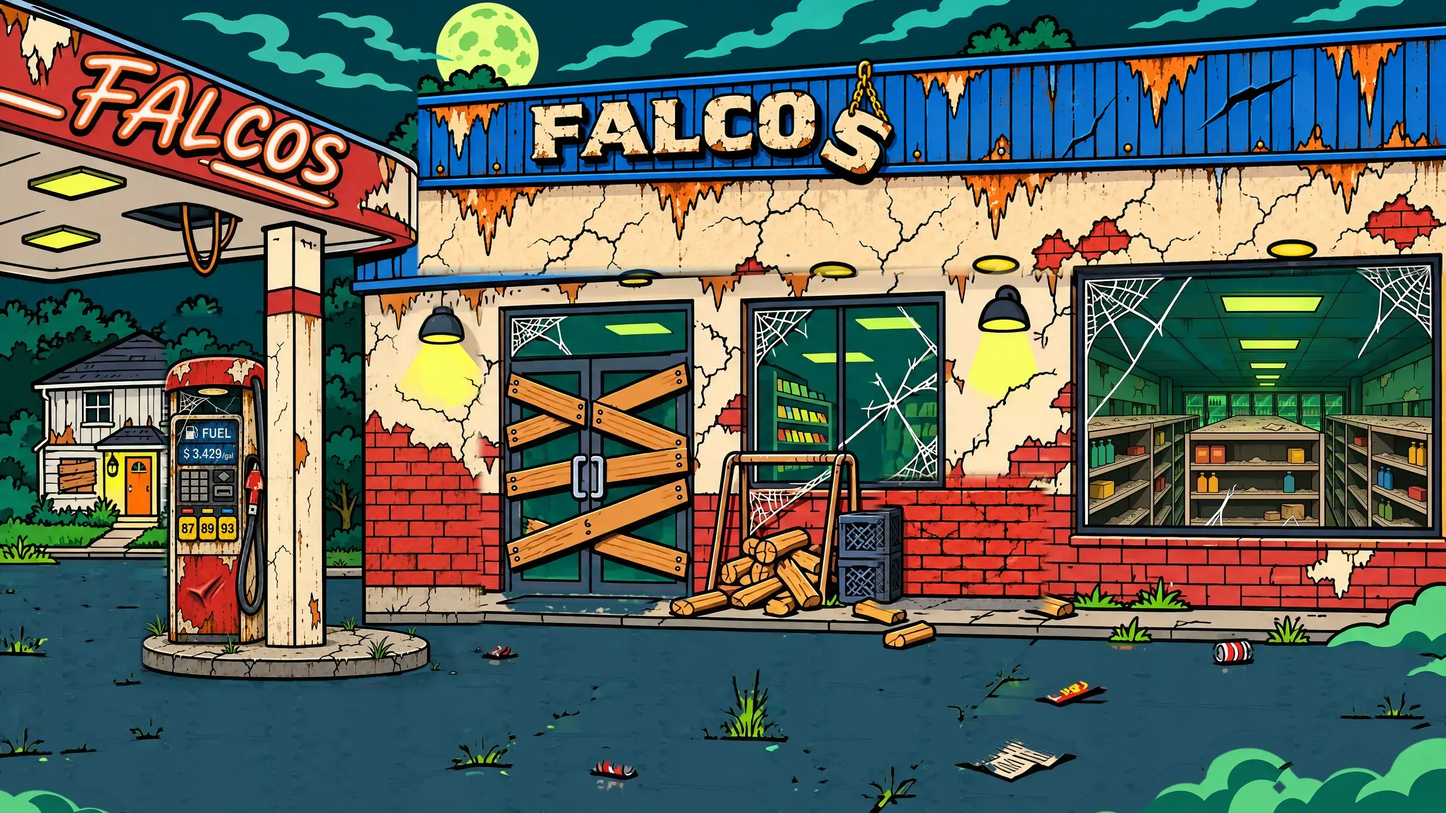
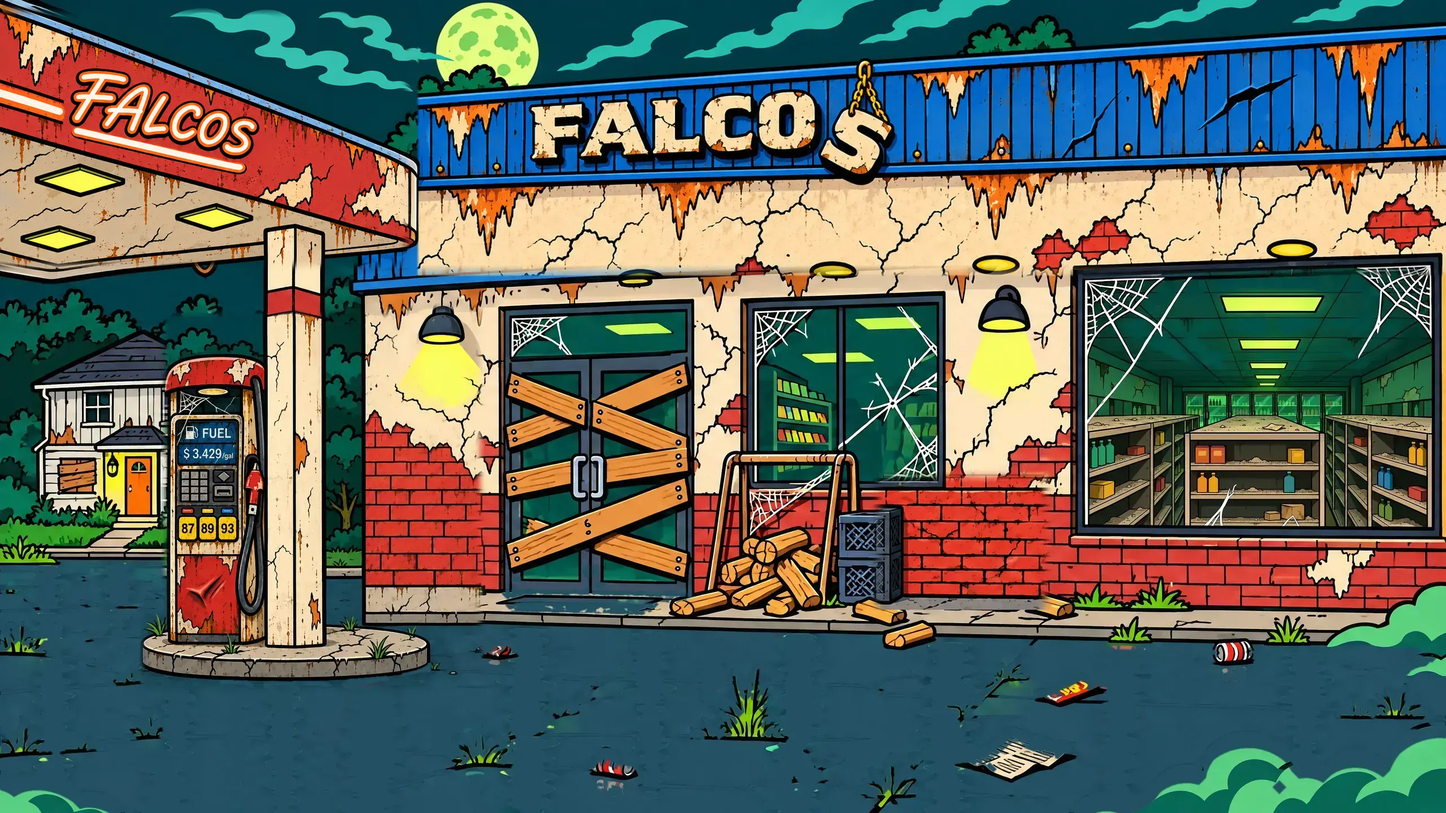
Falcos: a smaller canopy neon that fits left of the board; the building's lettering hidden while playing
- tools/falcos/neon_small.py: the canopy's FALCOS neon at ~70%, ending left of the pillar, on all four plates (each
  scene's own colours; PREMIUM keeps the base game's tubes), and the flicker rebuilt for the new letters: sign_off,
  sign_off_l / sign_off_s and PREMIUM's zsign_off_l / zsign_off_s, rects in scene.json.
- tools/falcos/sign_patch.py: a letter-free fascia patch per scene, laid over the plate as a second background
  layer only while playing (not on the loading screen or the bonus intros), so no sliver of the lettering peeks
  above the board.

Changed region(s): [[0.0, 0.0, 0.2812, 0.3438], [0.25, 0.0312, 0.2812, 0.0625]]

diff --git a/frontend/index.html b/frontend/index.html
@@ -74,6 +74,7 @@
        only the pair that applies is preloaded (assetUrls skips media rules that do not match) */
     --wall-img: url("assets/bonus_wall.webp");
     --zombie-img: url("assets/scene/plate_zombie.webp");
+    --wall-patch: url("assets/scene/signpatch_lit.webp");   /* the building's lettering hidden during play (sign_patch.py) */
     --sym-fit: .92;    /* a symbol fills this share of its tile (SYM_FIT in the script, boardgl.js) */
     /* frame_sq.webp's glass opening, as fractions of the picture (frame_sq.json, measured by
        compress_assets.py - keep these in step with it): left, top, width, height */
@@ -89,7 +90,8 @@
     :root { --cell-w: 150px; --fo-l: .03096; --fo-t: .15494; --fo-w: .93808; --fo-h: .80189; }
   }
   @media (max-width: 900px) and (max-height: 1000px), (max-height: 500px) {
-    :root { --wall-img: url("assets/bonus_wall_m.webp"); --zombie-img: url("assets/scene/plate_zombie_m.webp"); }
+    :root { --wall-img: url("assets/bonus_wall_m.webp"); --zombie-img: url("assets/scene/plate_zombie_m.webp");
+            --wall-patch: url("assets/scene/signpatch_lit_m.webp"); }
   }
 
   /* The faces ship as subset WOFF2 (tools/make_webfonts.py, from the masters in art/fonts): every
@@ -165,6 +167,18 @@
     background: #070B18 var(--wall-img) var(--wall-x, 50%) var(--wall-y, 50%) / var(--wall-scale) no-repeat;
     /* the scene's lean (--scene-yaw); the hop (bgbounce) is on translate/scale and rides on top */
     transform: perspective(2600px) rotateY(var(--scene-yaw));
+  }
+  /* While playing, the building's FALCOS lettering is hidden - the board covers most of it and only a sliver showed
+     (owner, 2026-11-17: "remove the background of the sign covered by the board but only on the playing screen"): a
+     letter-free fascia patch rides over the plate as a second layer, same size and place. The loading screen and the
+     bonus intros keep the full sign. */
+  body:not(.features-up) #bgwall {
+    background: var(--wall-patch) var(--wall-x, 50%) var(--wall-y, 50%) / var(--wall-scale) no-repeat,
+                #070B18 var(--wall-img) var(--wall-x, 50%) var(--wall-y, 50%) / var(--wall-scale) no-repeat;
+  }
+  body:not(.features-up) #bgalt {
+    background: var(--altpatch, none) var(--wall-x, 50%) var(--wall-y, 50%) / var(--wall-scale) no-repeat,
+                #070B18 var(--alt, none) var(--wall-x, 50%) var(--wall-y, 50%) / var(--wall-scale) no-repeat;
   }
   #bgwall::after {
     content: ""; position: absolute; inset: 0; z-index: 1; pointer-events: none;
@@ -6251,9 +6265,9 @@ const plateUrl = u => SMALL_PLATES ? u.replace(/\.webp$/, "_m.webp") : u;
 // like the normal one"): its L and S fail on their own clocks through SceneFX's fault episodes, their off states
 // cut by tools/falcos/zombie_sign.py (assets/scene/zsign_off_<l>.webp, rects in scene.json's zombie_layers).
 const Scene = (() => {
-  const PLATES = { zombie: { url: plateUrl("assets/scene/plate_zombie.webp"), wash: "rgba(90, 255, 70, .55)" },
-                   midnight: { url: plateUrl("assets/scene/plate_midnight.webp"), wash: "rgba(140, 110, 255, .6)" },
-                   nitro: { url: plateUrl("assets/scene/plate_nitro.webp"), wash: "rgba(70, 120, 255, .6)" } };
+  const PLATES = { zombie: { url: plateUrl("assets/scene/plate_zombie.webp"), patch: plateUrl("assets/scene/signpatch_zombie.webp"), wash: "rgba(90, 255, 70, .55)" },
+                   midnight: { url: plateUrl("assets/scene/plate_midnight.webp"), patch: plateUrl("assets/scene/signpatch_midnight.webp"), wash: "rgba(140, 110, 255, .6)" },
+                   nitro: { url: plateUrl("assets/scene/plate_nitro.webp"), patch: plateUrl("assets/scene/signpatch_nitro.webp"), wash: "rgba(70, 120, 255, .6)" } };
   let alt = null, now = "normal", zcfg = null;
   const zTimers = new Set();
   const zLater = (ms, fn) => { const id = setTimeout(() => { zTimers.delete(id); fn(); }, ms); zTimers.add(id); };
@@ -6330,6 +6344,7 @@ const Scene = (() => {
     now = name;
     if (p) {
       a.style.setProperty("--alt", `url("${p.url}")`);
+      a.style.setProperty("--altpatch", `url("${p.patch}")`);   // its building lettering hidden while playing
       a.classList.add("on");
       if (name === "zombie") { placeSign(); flicker(); } else stopFlicker();
       a.classList.toggle("zombie", name === "zombie");
@@ -7931,6 +7946,7 @@ function assetUrls() {
   for (const n of ["logo_fillup", "logo_premium_zombie", "logo_midnight", "logo_nitro", "logo_chance"]) urls.add("assets/menu/" + n + ".webp");   // the bonus screens' and the buy menu's lettering
   for (const n of ["chance", "fillup", "premium", "nitro", "midnight"]) urls.add("assets/menu/" + n + ".webp");
   for (const n of ["plate_zombie", "plate_nitro", "plate_midnight"]) urls.add(plateUrl("assets/scene/" + n + ".webp"));   // the bonus scenes
+  for (const n of ["zombie", "nitro", "midnight"]) urls.add(plateUrl("assets/scene/signpatch_" + n + ".webp"));   // and their play-time sign patches
   // a plate named in :root is the desktop one; on a phone-sized window only its _m twin is drawn
   return [...new Set([...urls].map(u => /(bonus_wall|scene\/plate_\w+?)\.webp$/.test(u) && !/_m\.webp$/.test(u) ? plateUrl(u) : u))];
 }

diff --git a/tools/falcos/neon_small.py b/tools/falcos/neon_small.py
@@ -1,0 +1,137 @@
+"""The canopy's FALCOS neon made smaller, so the whole word sits left of the board while playing (owner, 2026-11-17:
+"make the full falcos neon sign fit between the board" -> "Shrink the sign"), on every plate - and its flicker rebuilt
+for the new letters.
+
+  * art/falcos/raw/neon_lit_small.png: the normal plate's canopy crop with the neon at ~70%, its left end in place,
+    ending left of the pillar; neon_<zombie|midnight|nitro>_small.png restyled from it with each scene's own look
+    (PREMIUM keeps the base game's cream/orange tubes, as zombie_sign.py made it); *_small_off.png: the lit and
+    PREMIUM signs switched off.
+  * Each plate takes the edit where it changed in the canopy zone (the old big letters gone, the new small ones in).
+  * The neon-off overlays are cut again from the switched-off edits: sign_off (the whole sign, for the big-win
+    stutter), sign_off_l / sign_off_s (the two faulty letters, scenefx.js) and PREMIUM's zsign_off_l / zsign_off_s
+    (index.html's Scene); their rects go into scene.json (plate px, 3840 wide).
+
+    .venv/bin/python tools/falcos/neon_small.py
+"""
+import json, os, sys
+import numpy as np
+from PIL import Image, ImageFilter
+from scipy import ndimage
+
+ROOT = os.path.dirname(os.path.dirname(os.path.dirname(os.path.abspath(__file__))))
+sys.path.insert(0, os.path.join(ROOT, 'tools', 'falcos'))
+from compress_assets import encode, PLATE_Q, PLATE_W_M   # noqa: E402
+
+A = os.path.join(ROOT, 'frontend', 'assets')
+RAW = os.path.join(ROOT, 'art', 'falcos', 'raw')
+W = os.path.join(ROOT, 'art', 'falcos', 'work', 'neon')
+CROP = 1000                     # the edits are of the plate's top-left 1000 x 1000 (2560-wide plate)
+ZONE = (0, 20, 720, 470)        # crop px: the canopy's front, where the neon was and is
+K = 1.5                         # 2560 -> 3840 plate px (scene.json)
+PLATES = {'lit': 'bonus_wall.webp', 'zombie': 'scene/plate_zombie.webp', 'midnight': 'scene/plate_midnight.webp',
+          'nitro': 'scene/plate_nitro.webp'}
+
+
+def load(name):
+    return Image.open(os.path.join(RAW, name)).convert('RGB').resize((CROP, CROP), Image.LANCZOS)
+
+
+def zone_mask(shape):
+    z = np.zeros(shape, bool)
+    z[ZONE[1]:ZONE[3], ZONE[0]:ZONE[2]] = True
+    return z
+
+
+# 1. the plates
+edits = {}
+for name, rel in PLATES.items():
+    p = os.path.join(A, rel)
+    keep = os.path.join(W, f'before_{name}.webp')
+    if not os.path.exists(keep):
+        Image.open(p).save(keep, 'WEBP', lossless=True)
+    plate = Image.open(keep).convert('RGB')
+    region = plate.crop((0, 0, CROP, CROP))
+    edit = load(f'neon_{name}_small.png')
+    d = np.abs(np.asarray(edit, np.int16) - np.asarray(region, np.int16)).max(axis=2) > 36
+    m = ndimage.binary_dilation(ndimage.binary_opening(d, iterations=1), iterations=16) & zone_mask(d.shape)
+    alpha = Image.fromarray((m * 255).astype(np.uint8)).filter(ImageFilter.GaussianBlur(6))
+    region.paste(edit, (0, 0), alpha)
+    plate.paste(region, (0, 0))
+    encode(plate, p, PLATE_Q, 100)
+    encode(plate.resize((PLATE_W_M, round(plate.height * PLATE_W_M / plate.width)), Image.LANCZOS), p[:-5] + '_m.webp', PLATE_Q, 100)
+    edits[name] = np.asarray(region)
+    print(f'{name}: neon blended')
+
+
+# 2. the neon-off overlays
+def overlay(lit, off):
+    """the off edit where it differs from the lit plate (the tubes and their glow), as RGBA, crop px"""
+    d = np.abs(np.asarray(off, np.int16) - lit.astype(np.int16)).max(axis=2) > 22
+    d &= zone_mask(d.shape)
+    d = ndimage.binary_dilation(ndimage.binary_opening(d, iterations=1), iterations=3)
+    a = np.asarray(Image.fromarray((d * 255).astype(np.uint8)).filter(ImageFilter.GaussianBlur(2)))
+    rgba = np.dstack([np.asarray(off), a]).astype(np.uint8)
+    return rgba
+
+
+def letters(lit, off):
+    """the neon's letters left to right: each a mask of its white-hot tube core (the underline swoosh left out) -
+    bright on the lit sign AND changed when it is switched off, so the stars and the canopy's lights are not taken"""
+    changed = np.abs(np.asarray(off, np.int16) - lit.astype(np.int16)).max(axis=2) > 40
+    core = (lit.min(axis=2) > 200) & changed & zone_mask(lit.shape[:2])
+    core = ndimage.binary_opening(core, iterations=1)
+    lab, n = ndimage.label(ndimage.binary_dilation(core, iterations=2))
+    parts = []
+    for i, sl in enumerate(ndimage.find_objects(lab)):
+        h, w = sl[0].stop - sl[0].start, sl[1].stop - sl[1].start
+        size = (lab[sl] == i + 1).sum()
+        if size < 60 or w > 2.0 * h:   # specks, the long low swoosh and the canopy's stripe
+            continue
+        parts.append((sl[1].start, lab == i + 1))
+    parts.sort(key=lambda t: t[0])
+    return [m for _, m in parts]
+
+
+def cut(rgba, mine, others, grow=22, keep_off=8):
+    """one letter's piece of the off overlay: its tube grown by the glow's reach, clear of the other letters"""
+    reach = ndimage.binary_dilation(mine, iterations=grow)
+    if others is not None:
+        reach &= ~ndimage.binary_dilation(others, iterations=keep_off)
+    a = rgba[..., 3].astype(np.float32) * np.asarray(Image.fromarray((reach * 255).astype(np.uint8)).filter(ImageFilter.GaussianBlur(3)), np.float32) / 255
+    ys, xs = np.nonzero(a > 2)
+    x0, y0, x1, y1 = xs.min(), ys.min(), xs.max() + 1, ys.max() + 1
+    piece = np.dstack([rgba[y0:y1, x0:x1, :3], a[y0:y1, x0:x1].astype(np.uint8)])
+    return Image.fromarray(piece), (x0, y0, x1, y1)
+
+
+def to3840(img, box):
+    x0, y0, x1, y1 = box
+    rect = [round(x0 * K), round(y0 * K), round((x1 - x0) * K), round((y1 - y0) * K)]
+    return img.resize((rect[2], rect[3]), Image.LANCZOS), rect
+
+
+scene_p = os.path.join(A, 'scene', 'scene.json')
+scene = json.load(open(scene_p))
+for name, prefix, key in (('lit', 'sign_off', 'layers'), ('zombie', 'zsign_off', 'zombie_layers')):
+    lit = edits[name]
+    off = load(f'neon_{name}_small_off.png')
+    rgba = overlay(lit, off)
+    ls = letters(lit, off)
+    print(f'{name}: {len(ls)} letters found')
+    assert len(ls) == 6, 'expected the six letters of FALCOS'
+    allm = np.logical_or.reduce(ls)
+    out = {}
+    if name == 'lit':   # the whole sign off, for the big-win stutter: the canopy's top-left 768 x 512 (1152 x 768 at 3840)
+        whole = Image.fromarray(rgba[:512, :768])
+        img, rect = to3840(whole, (0, 0, 768, 512))
+        img.save(os.path.join(A, 'scene', 'sign_off.webp'), 'WEBP', quality=88, method=6, alpha_quality=95)
+        out['sign_off'] = {'rect': rect}
+    for idx, tag in ((2, 'l'), (5, 's')):   # F A L C O S: the L and the S fail
+        others = allm & ~ls[idx]
+        piece, box = cut(rgba, ls[idx], others)
+        img, rect = to3840(piece, box)
+        img.save(os.path.join(A, 'scene', f'{prefix}_{tag}.webp'), 'WEBP', quality=88, method=6, alpha_quality=95)
+        out[f'{prefix}_{tag}'] = {'rect': rect}
+    scene[key] = out
+    print(name, out)
+json.dump(scene, open(scene_p, 'w'), indent=1)

diff --git a/tools/falcos/sign_patch.py b/tools/falcos/sign_patch.py
@@ -1,0 +1,40 @@
+"""The building's FALCOS lettering hidden while playing (owner, 2026-11-17: "remove the background of the sign covered by
+the board but only on the playing screen"): for each scene a transparent picture the size of its plate, holding only
+the plain fascia where the lettering is (an edit of the plate's building crop with the letters taken out:
+art/falcos/raw/signpatch_<scene>.png). The stylesheet lays it over the scene as a second background layer, same size
+and place, only while the game is being played (not on the loading screen or a bonus intro).
+
+    .venv/bin/python tools/falcos/sign_patch.py   ->  frontend/assets/scene/signpatch_<scene>.webp (+ _m)
+"""
+import os, sys
+import numpy as np
+from PIL import Image, ImageFilter
+from scipy import ndimage
+
+ROOT = os.path.dirname(os.path.dirname(os.path.dirname(os.path.abspath(__file__))))
+sys.path.insert(0, os.path.join(ROOT, 'tools', 'falcos'))
+from compress_assets import encode, PLATE_W_M   # noqa: E402
+
+A = os.path.join(ROOT, 'frontend', 'assets')
+RAW = os.path.join(ROOT, 'art', 'falcos', 'raw')
+BOX = (640, 0, 2560, 1080)            # the building crop the edits were made from (2560-wide plate)
+ZONE = (220, 70, 1020, 370)           # crop px: where the lettering (and PREMIUM's hanging S) is
+PLATES = {'lit': 'bonus_wall.webp', 'zombie': 'scene/plate_zombie.webp', 'midnight': 'scene/plate_midnight.webp',
+          'nitro': 'scene/plate_nitro.webp'}
+
+for name, rel in PLATES.items():
+    plate = Image.open(os.path.join(A, rel)).convert('RGB')
+    region = plate.crop(BOX)
+    edit = Image.open(os.path.join(RAW, f'signpatch_{name}.png')).convert('RGB').resize(region.size, Image.LANCZOS)
+    d = np.abs(np.asarray(edit, np.int16) - np.asarray(region, np.int16)).max(axis=2) > 40
+    zone = np.zeros_like(d); zone[ZONE[1]:ZONE[3], ZONE[0]:ZONE[2]] = True
+    m = ndimage.binary_dilation(ndimage.binary_opening(d & zone, iterations=1), iterations=14) & zone
+    alpha = Image.fromarray((m * 255).astype(np.uint8)).filter(ImageFilter.GaussianBlur(4))
+    layer = Image.new('RGBA', plate.size, (0, 0, 0, 0))
+    piece = edit.convert('RGBA'); piece.putalpha(alpha)
+    layer.paste(piece, BOX[:2])
+    out = os.path.join(A, 'scene', f'signpatch_{name}.webp')
+    encode(layer, out, 90, 90)
+    small = layer.resize((PLATE_W_M, round(layer.height * PLATE_W_M / layer.width)), Image.LANCZOS)
+    encode(small, out[:-5] + '_m.webp', 90, 90)
+    print(name, os.path.getsize(out), 'bytes')
